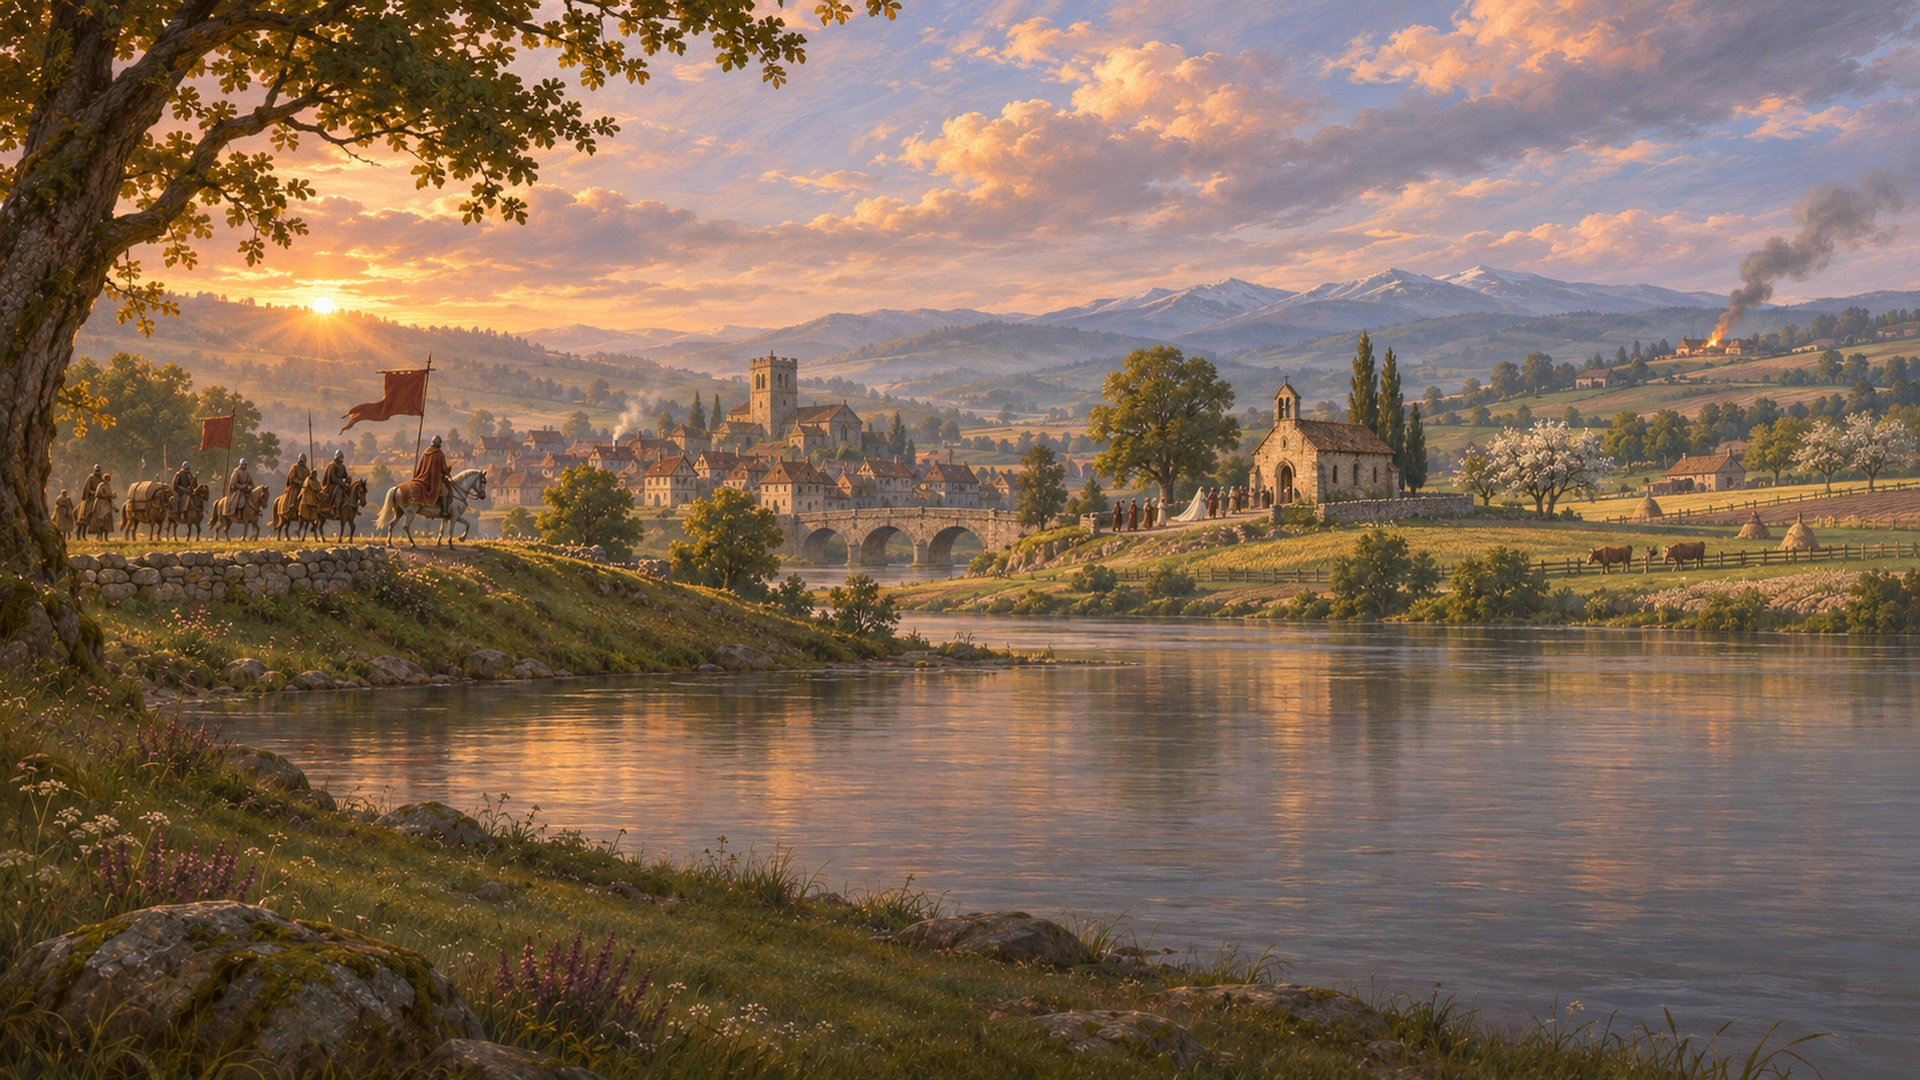
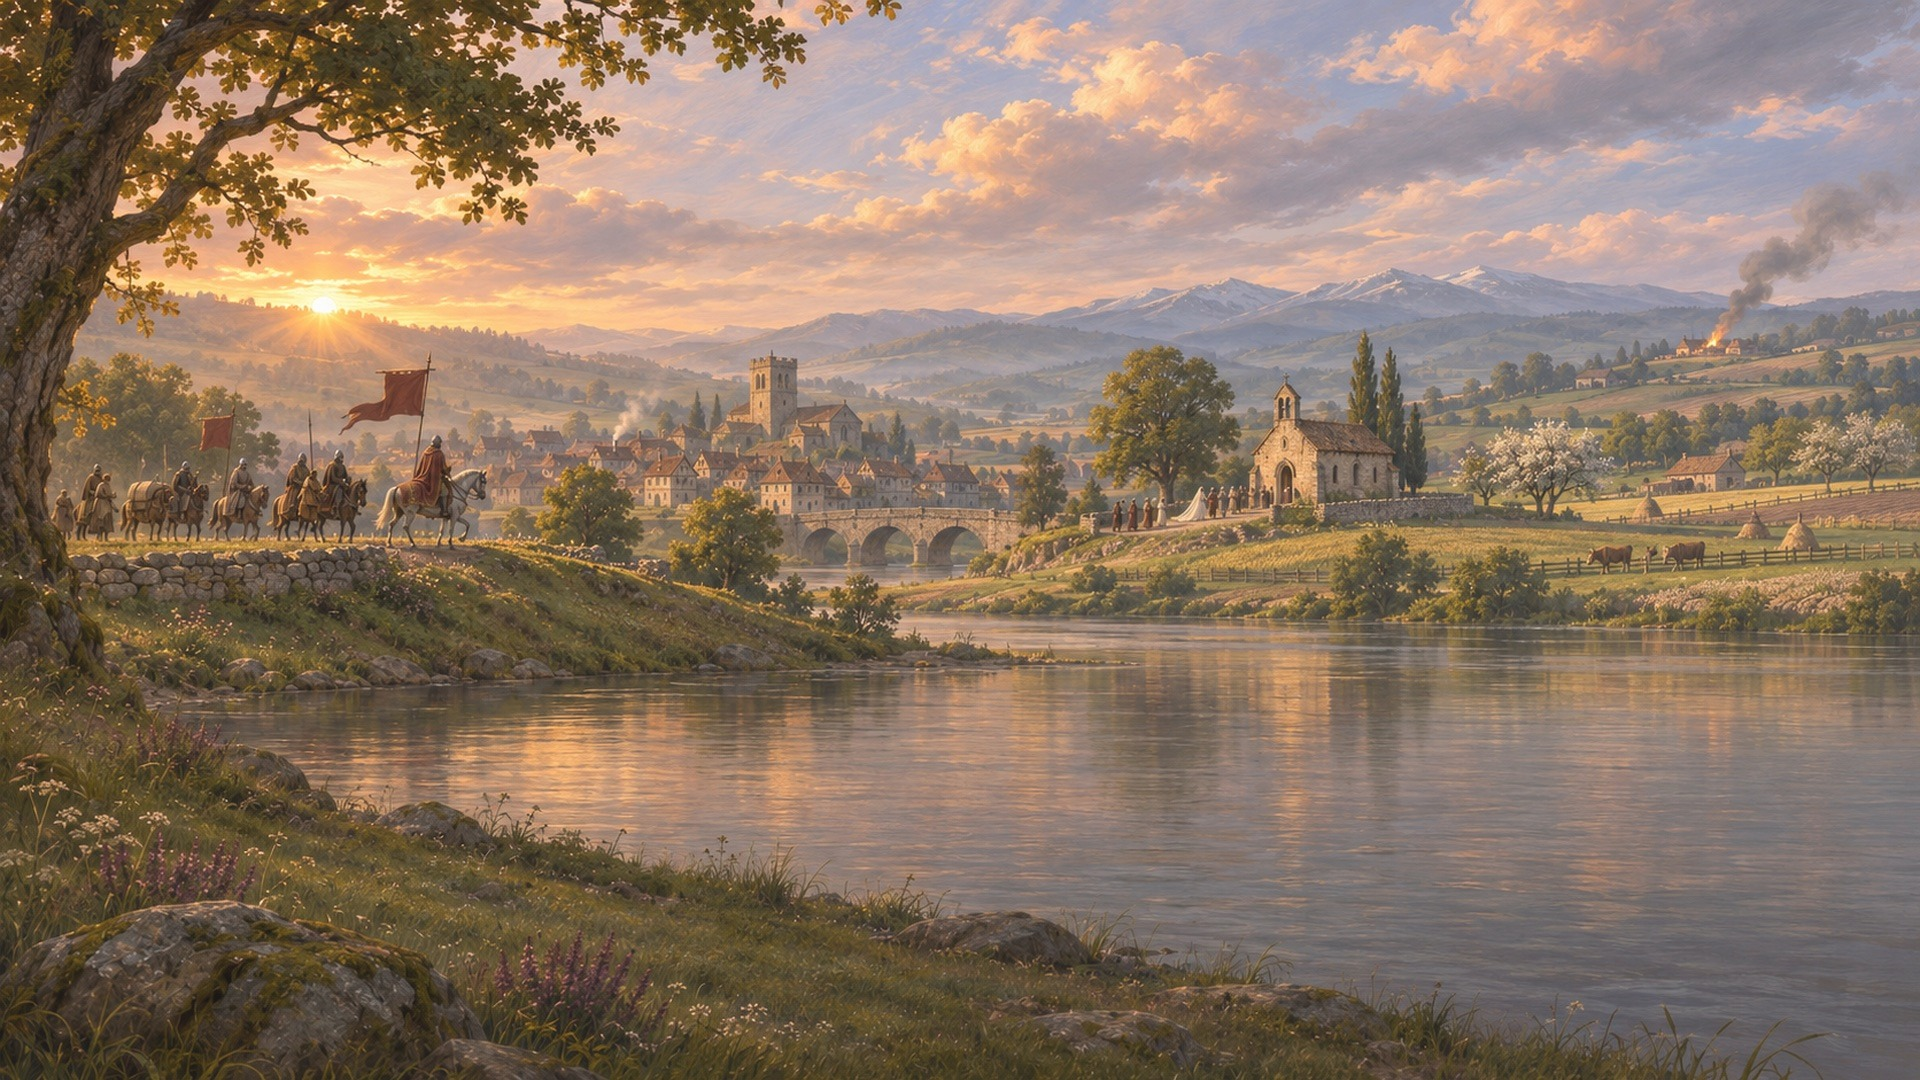
The title, intro and reign-end paintings graded toward the realm's palette (the professional audit; art-direction-report.md): realm/tools/grade_paintings.py lifts their shadows (painted, not photographic), quiets their colour a little and runs them through the game's own storybook LUT, so the menu, 

diff --git a/realm/tools/grade_paintings.py b/realm/tools/grade_paintings.py
@@ -1,0 +1,83 @@
+"""The title, intro and reign-end paintings graded toward the in-game palette (the professional audit:
+they read photographic beside the painted realm; art-direction-report.md: lifted, warm mid-tones, quieter
+greens, softer contrast). Each painting is read from git at --from (the ungraded original), so running
+it again never grades twice: lifted shadows, a little less saturation, then the game's own storybook
+LUT (assets/grade/storybook.png, tools/make_storybook_lut.py).
+
+Run:  python3 grade_paintings.py --from <commit with the originals> [--dry <sheet.jpg>]"""
+import argparse, glob, os, subprocess
+import numpy as np
+import cv2
+
+HERE = os.path.dirname(os.path.abspath(__file__))
+REALM = os.path.normpath(os.path.join(HERE, ".."))
+N = 33
+LIFT, SAT = 0.045, 0.9
+
+
+def lut():
+    img = cv2.imread(os.path.join(REALM, "assets", "grade", "storybook.png"))[:, :, ::-1].astype(np.float32) / 255
+    # tiles side by side: x = blue * 33 + red, y = green  ->  L[r, g, b]
+    return img.reshape(N, N, N, 3).transpose(1, 0, 2, 3)  # rows g, columns b*33+r: (g, b, r) -> (b, g, r)
+
+
+def apply_lut(f, L):
+    # f in 0..1 RGB, trilinear over the 33-step grid. L indexed [b, g, r].
+    x = f * (N - 1)
+    i0 = np.floor(x).astype(int).clip(0, N - 2)
+    t = x - i0
+    out = np.zeros_like(f)
+    for dr in (0, 1):
+        for dg in (0, 1):
+            for db in (0, 1):
+                w = (t[..., 0] if dr else 1 - t[..., 0]) * (t[..., 1] if dg else 1 - t[..., 1]) * (t[..., 2] if db else 1 - t[..., 2])
+                out += w[..., None] * L[i0[..., 2] + db, i0[..., 1] + dg, i0[..., 0] + dr]
+    return out
+
+
+def grade(bgr, L):
+    f = bgr[:, :, ::-1].astype(np.float32) / 255
+    f = LIFT + f * (1 - LIFT)                                  # lifted shadows: painted, not photographic
+    lum = (f @ np.array([0.2126, 0.7152, 0.0722], np.float32))[..., None]
+    f = lum + (f - lum) * SAT                                  # a little quieter
+    f = apply_lut(np.clip(f, 0, 1), L)
+    return (np.clip(f, 0, 1)[:, :, ::-1] * 255 + 0.5).astype(np.uint8)
+
+
+def files():
+    return sorted(glob.glob(os.path.join(REALM, "assets", "intro", "art", "*.jpg"))) + \
+        sorted(glob.glob(os.path.join(REALM, "assets", "intro", "splash", "*.jpg"))) + [os.path.join(REALM, "assets", "ui", "title-background.png")]
+
+
+def original(path, ref):
+    rel = os.path.relpath(path, os.path.dirname(REALM))
+    data = subprocess.run(["git", "-C", os.path.dirname(REALM), "show", f"{ref}:{rel}"], capture_output=True, check=True).stdout
+    return cv2.imdecode(np.frombuffer(data, np.uint8), cv2.IMREAD_COLOR)
+
+
+def main():
+    ap = argparse.ArgumentParser()
+    ap.add_argument("--from", dest="ref", required=True)
+    ap.add_argument("--dry", help="write a before/after sheet here instead of grading the files")
+    a = ap.parse_args()
+    L = lut()
+    if a.dry:
+        rows = []
+        for p in files()[:6]:
+            o = original(p, a.ref)
+            g = grade(o, L)
+            rows.append(np.hstack([cv2.resize(o, (480, 270)), cv2.resize(g, (480, 270))]))
+        cv2.imwrite(a.dry, np.vstack(rows))
+        return
+    for p in files():
+        o = original(p, a.ref)
+        g = grade(o, L)
+        if p.endswith(".png"):
+            cv2.imwrite(p, g, [cv2.IMWRITE_PNG_COMPRESSION, 6])
+        else:
+            cv2.imwrite(p, g, [cv2.IMWRITE_JPEG_QUALITY, 92])
+        print(os.path.relpath(p, REALM))
+
+
+if __name__ == "__main__":
+    main()
